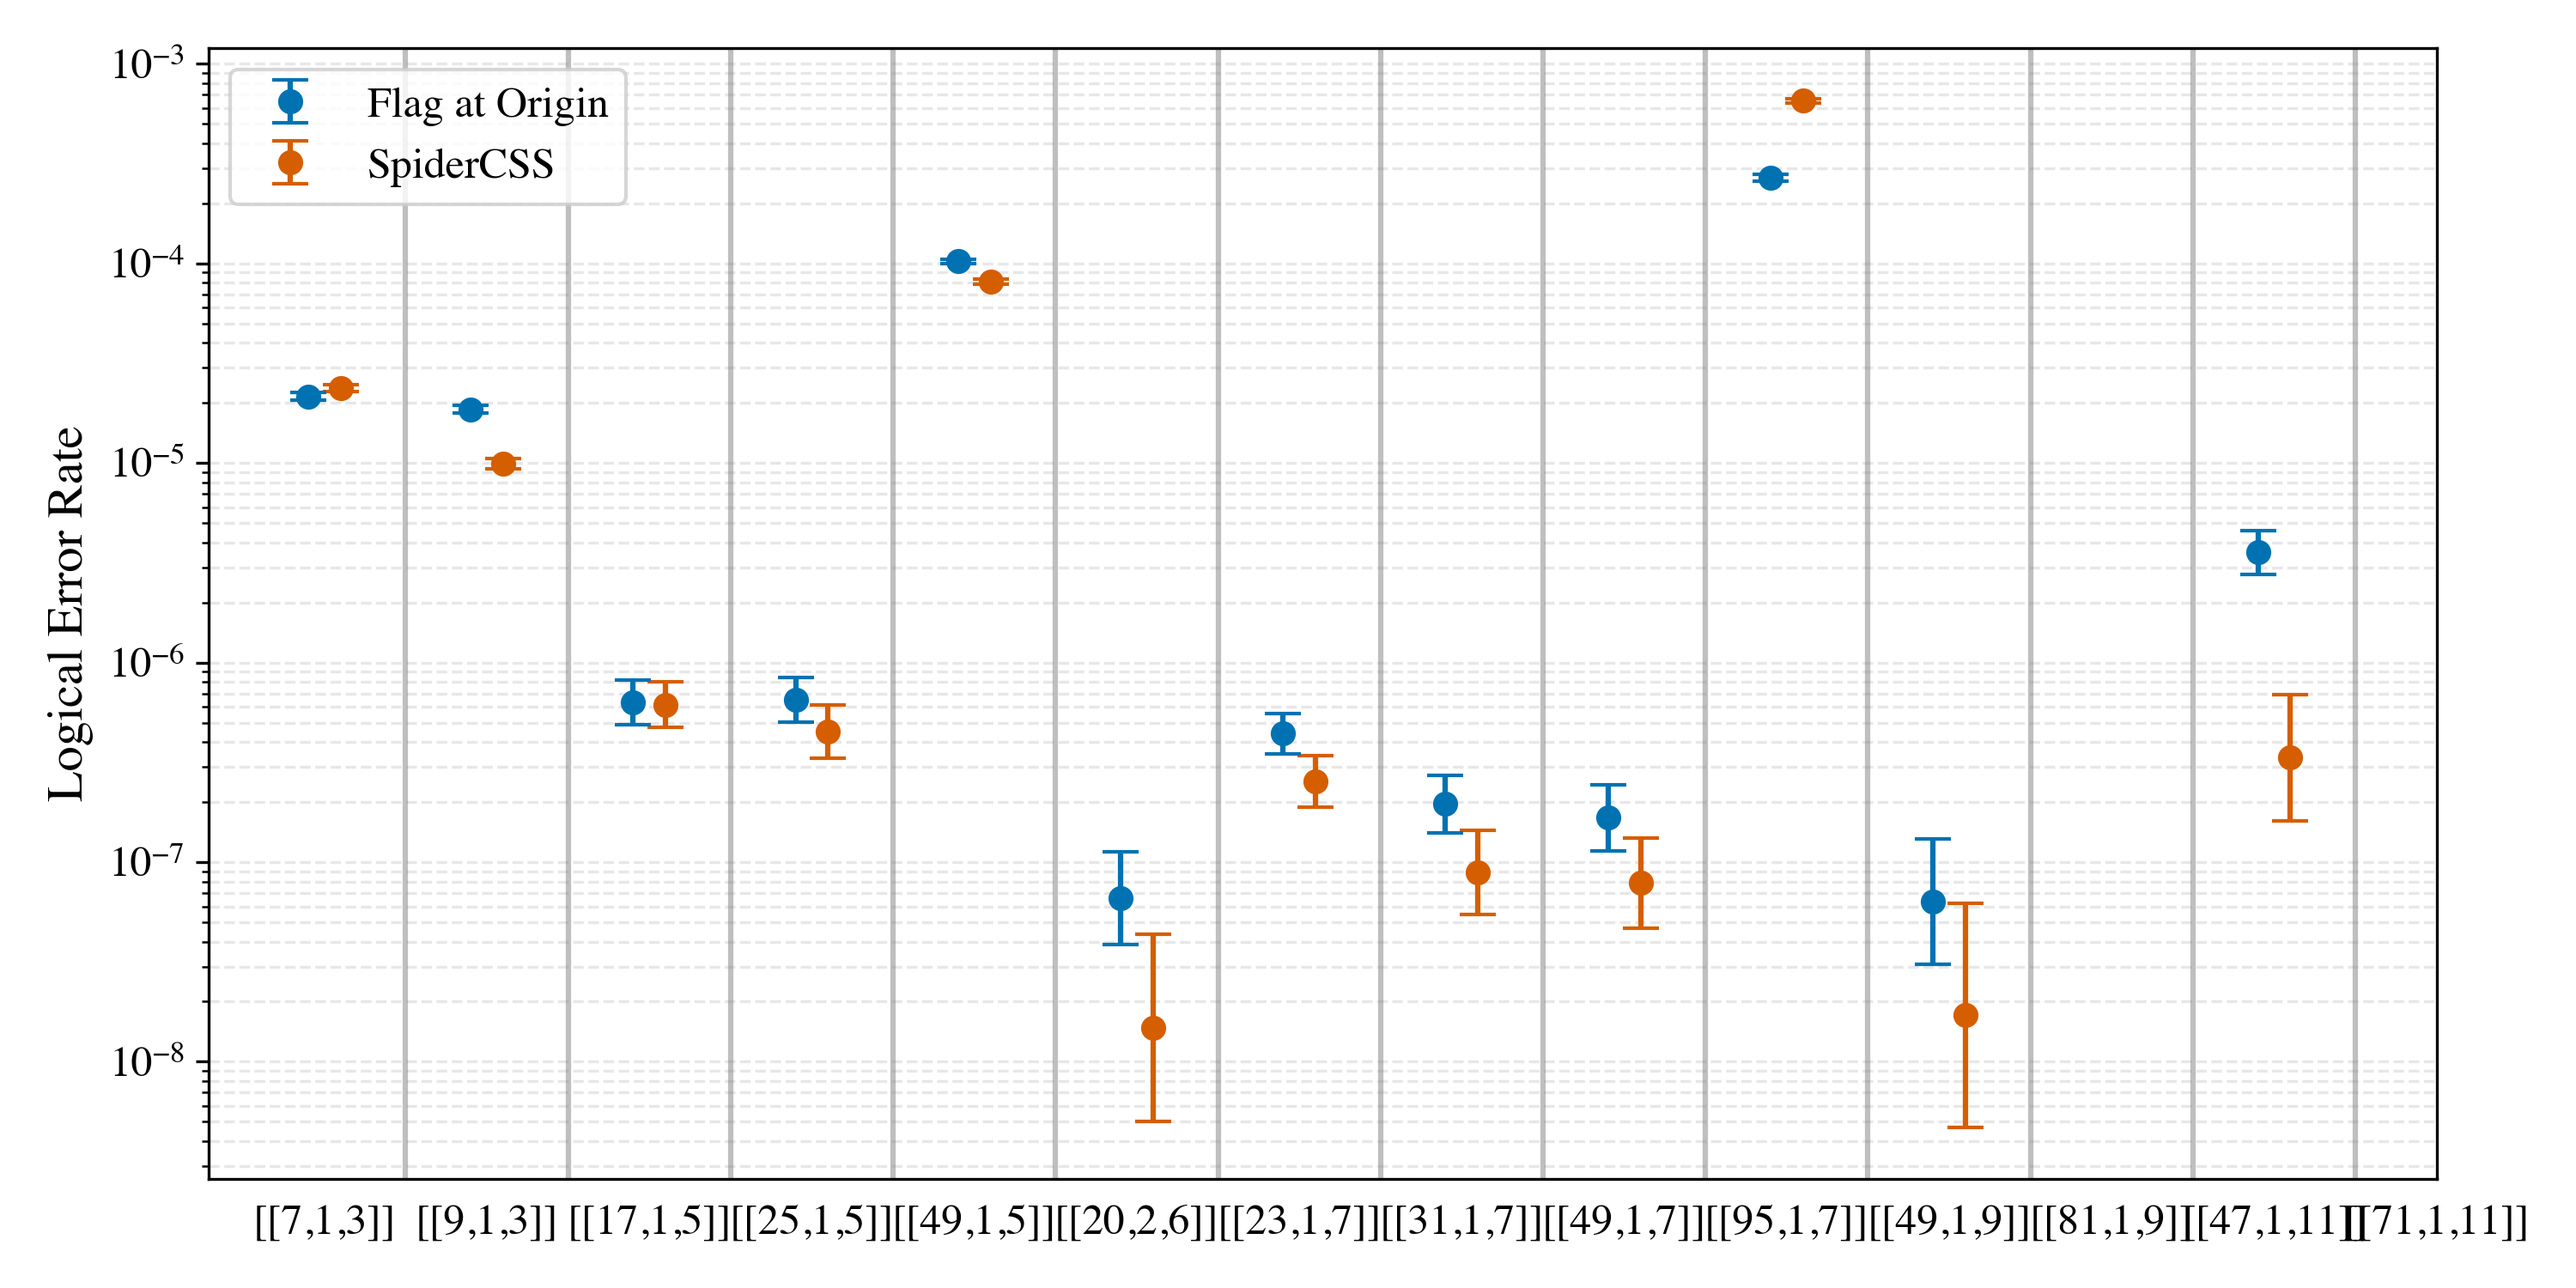
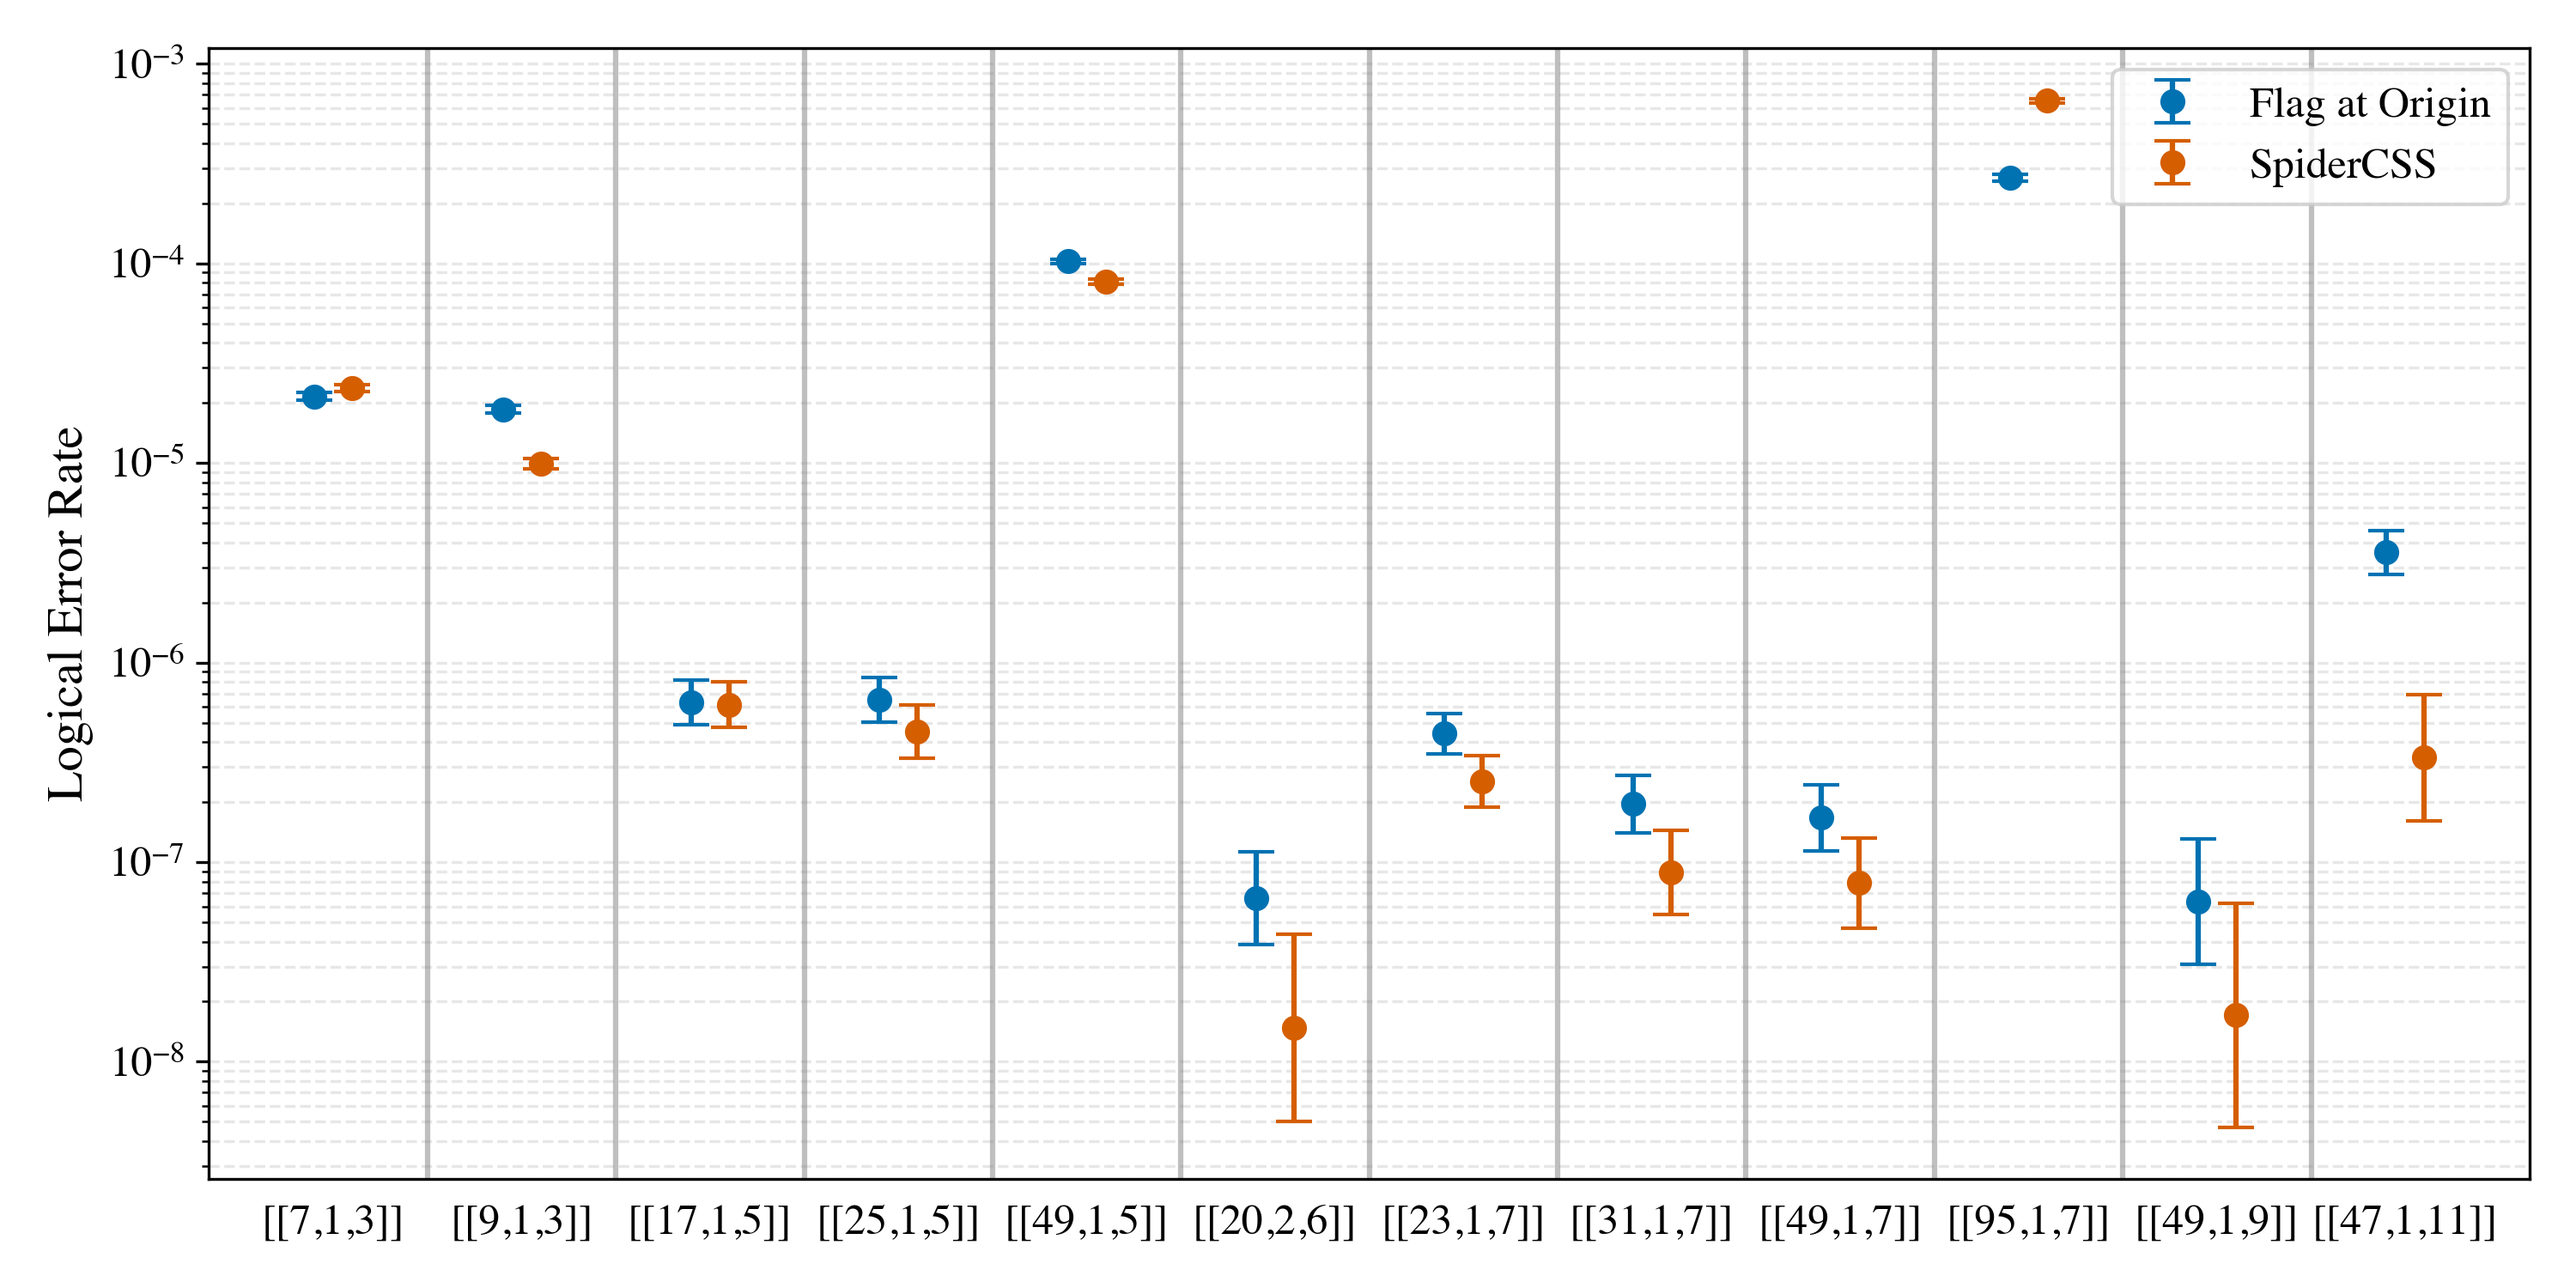
Filter missing LER codes from ler_vs_code plot only

diff --git a/spidercss/visualize.py b/spidercss/visualize.py
@@ -151,10 +151,17 @@ def plot_mirrored_histogram(codes, best_stats, fao_stats, colors, plots_dir):
     plt.close()
 
 def plot_ler_vs_code(codes, best_stats, fao_stats, colors, plots_dir):
-    plt.figure(figsize=(10, 5))
-    x_positions = np.arange(len(codes))
+    # Only use codes that have LER numbers
+    filtered_codes = [
+        c for c in codes
+        if best_stats[c].get("logical_error_rate") is not None
+        and fao_stats[c].get("logical_error_rate") is not None
+    ]
     
-    for i, code in enumerate(codes):
+    plt.figure(figsize=(10, 5))
+    x_positions = np.arange(len(filtered_codes))
+    
+    for i, code in enumerate(filtered_codes):
         fao_mid = fao_stats[code].get("logical_error_rate")
         fao_samples = fao_stats[code].get("num_samples", 0) * fao_stats[code].get("acceptance_rate", 1.0)
         if fao_mid is not None:
@@ -177,7 +184,7 @@ def plot_ler_vs_code(codes, best_stats, fao_stats, colors, plots_dir):
     plt.yscale("log")
     
     labels = []
-    for code in codes:
+    for code in filtered_codes:
         n = best_stats[code].get("n")
         k = best_stats[code].get("k")
         d = best_stats[code].get("d")
@@ -188,7 +195,7 @@ def plot_ler_vs_code(codes, best_stats, fao_stats, colors, plots_dir):
     plt.ylabel("Logical Error Rate")
     plt.legend()
     plt.grid(True, which="both", axis="y", ls="--", alpha=0.3)
-    for i in range(len(codes) - 1):
+    for i in range(len(filtered_codes) - 1):
         plt.axvline(x=i + 0.5, color='gray', linestyle='-', alpha=0.5)
         
     plt.tight_layout()
